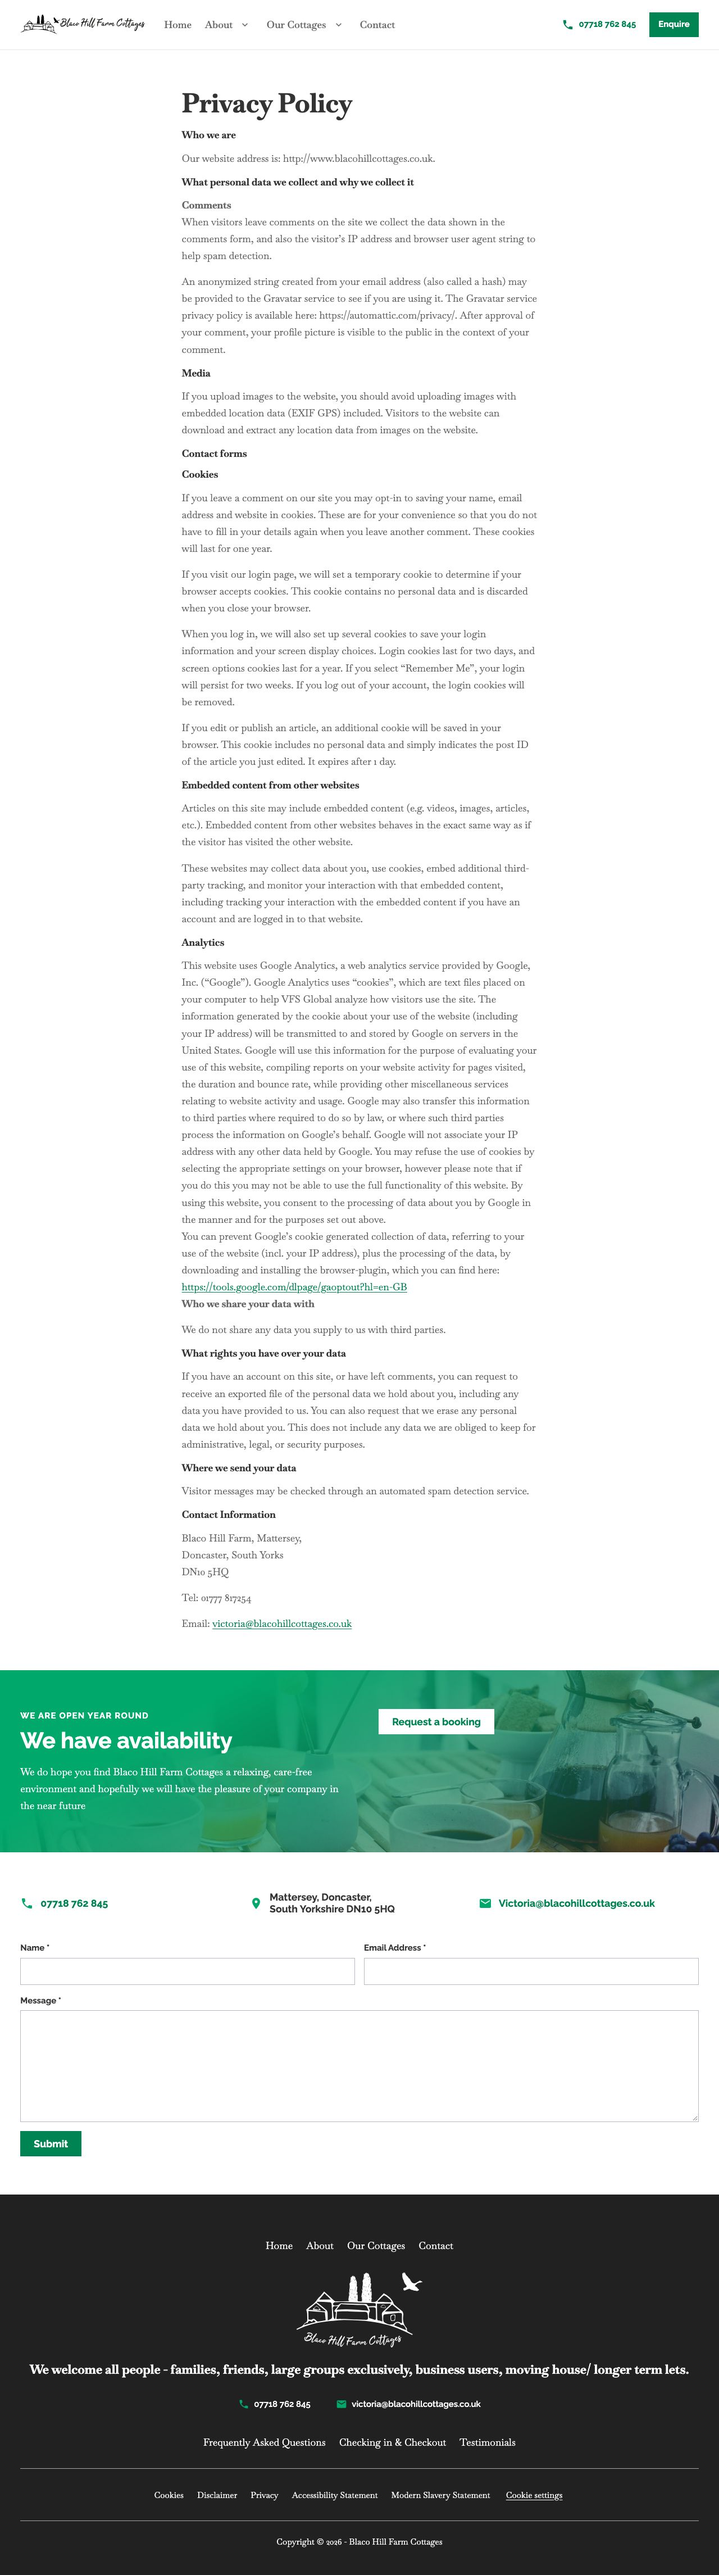
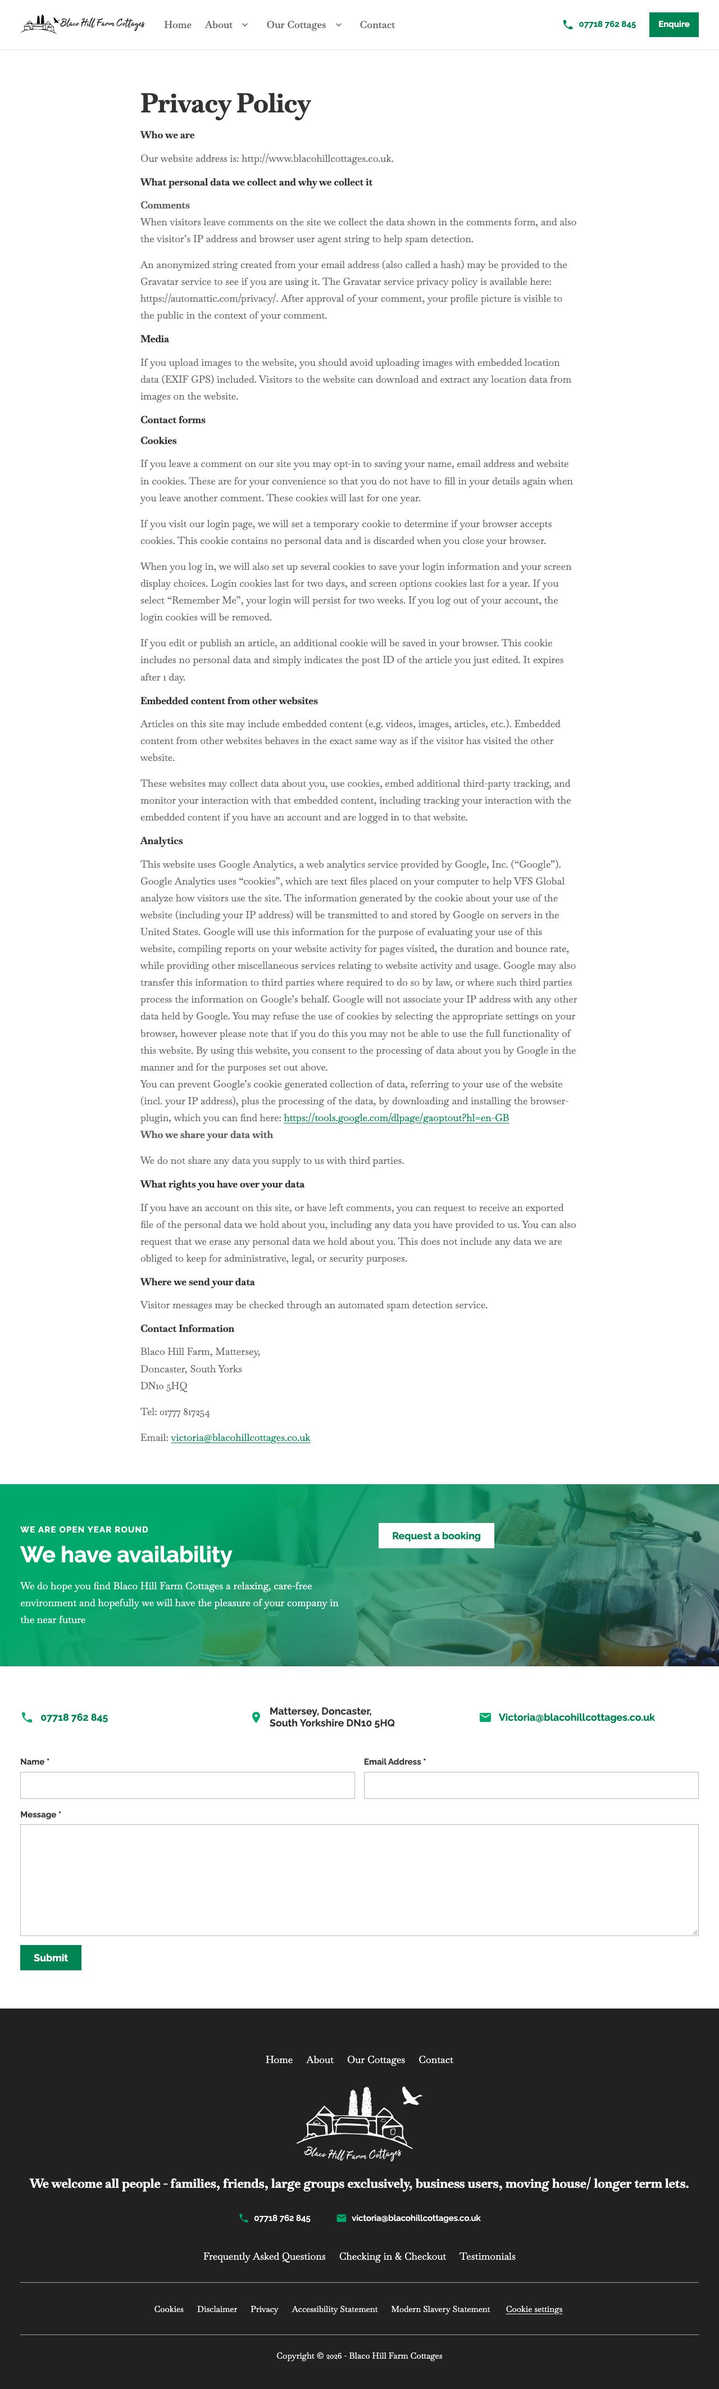
Widen the reading measure to 90ch and centre it on every text-heavy page
The measure is now 90ch, up from 73ch. Full-width text runs at a median
of 95 to 101 characters per line at 1280, 1920 and 2800px, since a
Baskervville 0 is wider than the average character.

The column is centred on the policy pages, the accessibility statement,
/modern-slavery and the FAQ and testimonial details. On the standard
templates the whole content section is limited and centred, with the
gutters added to the measure rather than taken out of it, so the
accessibility statement's list rows sit in the same column as its
headings. This replaces the earlier rule that centred only single-column
prose and left the accessibility statement out.

On the accessibility statement the list columns are narrower as a
result: a median of 15 characters per line against about 30 before, and
"Washhandbasin" breaks mid-word at every desktop width.

Screenshots retaken for accessibility, modern-slavery, policy, post-faq
and post-testimonial. tsc clean, build 60 pages, SEO audit clean bar the
three known long titles, content parity 0 unexplained, URL parity 69 of
69, Phase 4 pass, :global audit clean.

diff --git a/app/components/blocks/Blocks.module.css b/app/components/blocks/Blocks.module.css
@@ -401,24 +401,23 @@
 
 /*
   Reading measure for text-heavy pages (Checkpoint 5 decision 2). The limit is
-  in ch, so it scales with the type and stays about 75 characters per line at
-  every width. Only text is limited: sections, backgrounds and images stay
-  full width.
+  in ch, so it scales with the type and holds the same characters per line at
+  every width. Only text is limited: backgrounds and images stay full width.
 */
 .measured .prose {
   max-width: var(--measure);
 }
 
 /*
-  The text column is centred in the page, not left against the gutter. Only in
-  content sections: the green band and the contact block keep their layout. Not
-  on the accessibility statement, whose full-width headings sit over rows of
-  two to four list columns that span the page, so it has no single column to
-  centre. width: 100% stops the column shrinking to its content, as a flex item
-  with auto margins otherwise would, so it holds the full measure.
+  The content sections of these pages form one text column, centred in the
+  page rather than left against the gutter. The whole block is limited, so on
+  the accessibility statement the rows of two to four list columns sit inside
+  the same column as the headings above them. The gutters are padding inside
+  .inner, so they are added to the measure rather than taken out of it. The
+  green band and the contact block keep their full-width layout.
 */
-.measured:not([data-template='accessibility']) .section[data-kind='content'] .column[data-size='4_4'] > .prose {
-  width: 100%;
+.measured .section[data-kind='content'] > .inner {
+  max-width: calc(var(--measure) + 2 * var(--gutter));
   margin-inline: auto;
 }
 

diff --git a/app/globals.css b/app/globals.css
@@ -59,9 +59,11 @@
   --gutter: clamp(1rem, 0.4429rem + 2.286vw, 2.5rem);
   --header-height: 4rem;
   --touch-target: 44px;
-  /* Reading measure on text-heavy pages only (Checkpoint 5 decision 2). In ch,
-     so it scales with the type; tuned so a line holds about 75 characters. */
-  --measure: 73ch;
+  /* Reading measure on text-heavy pages only (Checkpoint 5 decision 2, widened
+     from 73ch on 2026-09-23). In ch, so it scales with the type. A Baskervville
+     0 is wider than the average character, so a line holds a little more than
+     90 characters. */
+  --measure: 90ch;
   --radius: 0;
 
   --focus-ring: 3px solid var(--colour-green);

diff --git a/agent/DECISIONS.md b/agent/DECISIONS.md
@@ -101,9 +101,9 @@ Requested by the client, 2026-09-23.
    - It exists only in the rebuild, not on the WordPress site, so it is added in `build-content.mjs` rather than extracted. The About page FAQ toggles stay as they are (Checkpoint 4 decision 2).
 2. **"For six people" becomes "For five or six people"**, because Swallow sleeps five (Checkpoint 1 decision 5). The label changes in the navigation, the listing page's title and H1, and anywhere else it appears. The URL stays `/for-six-people`, so no link or search result breaks.
 
-## Reading measure centred
+## Reading measure widened and centred
 
-Requested by Steve, 2026-09-23.
+Requested by Steve, 2026-09-23. This updates Checkpoint 5 decision 2.
 
-1. **The text column is centred** on the text-heavy pages that have a single column: the policy pages, the modern slavery page, and the FAQ and testimonial detail pages. The measure itself is unchanged (73ch, about 78 characters per line from 768px to 2800px). The green band and contact block below stay full width.
-2. **The accessibility statement is not centred.** Its full-width headings sit over rows of two to four list columns that span the page, so it has no single column to centre.
+1. **The measure is 90ch**, widened from 73ch. A Baskervville `0` (which sets the `ch` unit) is wider than the average character, so full-width text runs at a median of 95 to 101 characters per line, the same at every width from 1280px to 2800px.
+2. **The text column is centred** in the page on every text-heavy page: the policy pages, the accessibility statement, the modern slavery page, and the FAQ and testimonial detail pages. On the standard templates the whole content block is limited and centred, so the accessibility statement's rows of two to four list columns sit inside the same column as its headings, keeping their column counts (Checkpoint 4 decision 6). The green band and contact block below stay full width.
